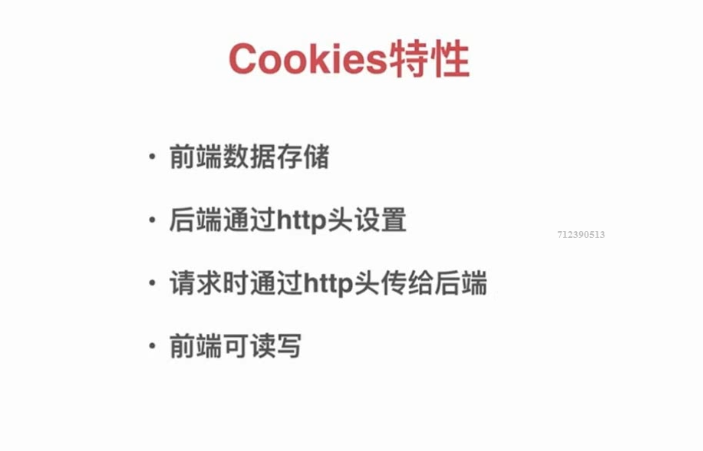
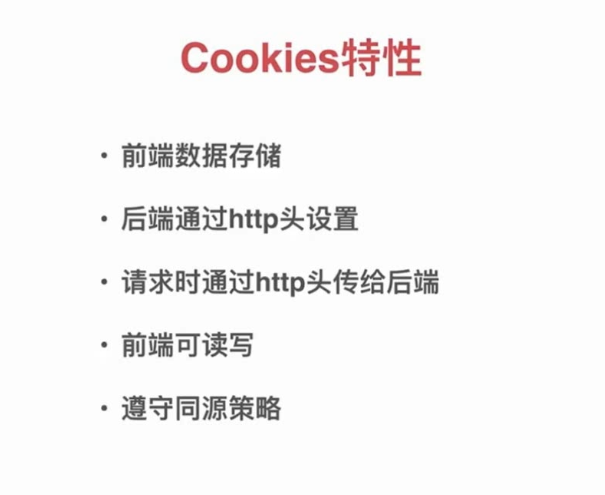
add 腾讯大牛攻防 cookies

diff --git a/视频笔记/腾讯大牛亲授 Web 前后端漏洞分析与防御技巧/index.md b/视频笔记/腾讯大牛亲授 Web 前后端漏洞分析与防御技巧/index.md
@@ -38,3 +38,12 @@
     处理
         引用不允许带cookies -ref
         拦击cookies-set-cookies
+        一定要经过网站前端--》
+          加验证码
+          加token  生成随机字符串  --每次请求--校对 -cookies-表单比较
+        reffer
+
+------- Cookies
+    同源
+    // 串改
+    // 被盗
